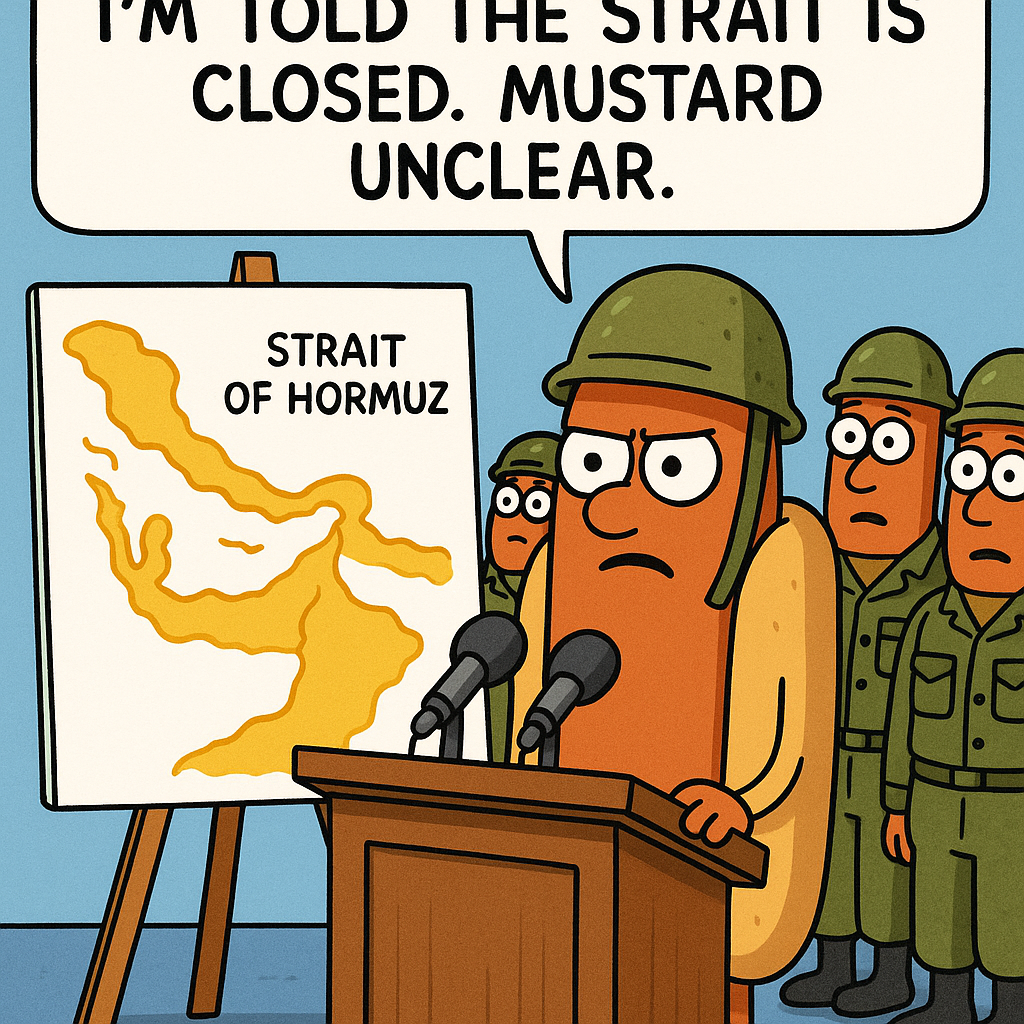
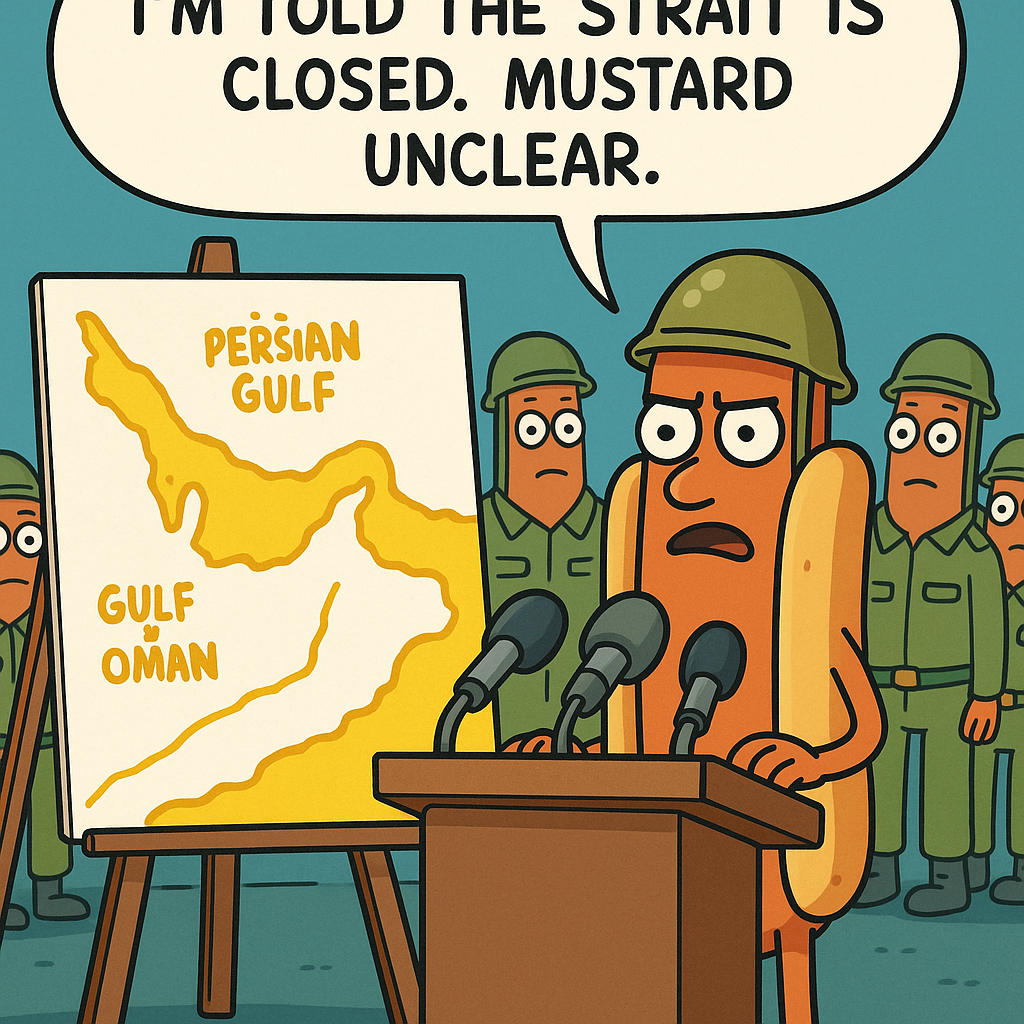
🌭 Hot dog Hormuz meme v2 - fixed top crop

diff --git a/README.md b/README.md
@@ -9,3 +9,5 @@ Purple dragon fitness memes for Alex's workout motivation.
 | 1 | `dragon_gym_day1_vs_day2.png` | Purple dragon bench pressing, "Day 1 vs Day 2" | 2026-05-11 |
 | 2 | `dragon_rest_day.png` | Purple dragon sleeping on couch with barbell on floor, "Rest days are gains days" | 2026-05-12 |
 | 3 | `dragon_deadlift_145x10.png` | Purple dragon deadlifting, "145x10. Dragons don't skip back day." | 2026-05-13 |
+| 4 | `figment_deadlift_145x10.png` | Figment-style dragon deadlifting, proper EPCOT look | 2026-05-13 |
+| 5 | `hotdog_hormuz_press_conference.png` | Hot dog in helmet giving press conference on Strait of Hormuz, "Mustard unclear" | 2026-05-13 |
